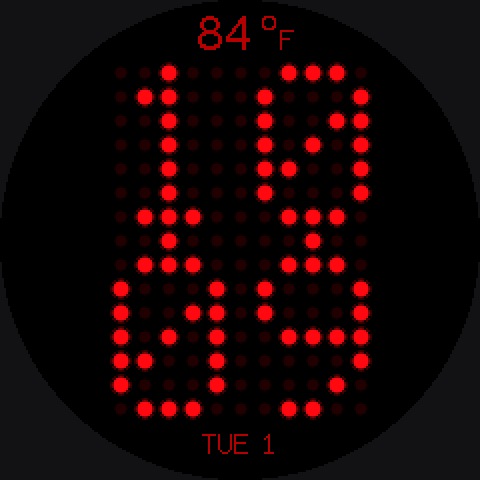
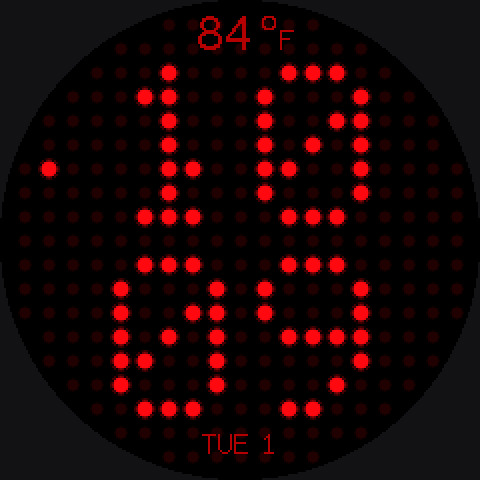
docs: cover the alarms, orientation and RTC
The C6 section listed the long press as opening the WiFi hotspot, which is
no longer what it does. It now lists what the board actually gained -
alarms, auto-rotation and the RTC - a line each, with the alarm detail in
docs/alarms.md rather than in the README: the pin traps and the volume
curve matter to someone working on that code and to nobody else.

Face renders for classic and dot-matrix are regenerated from the changed
sources, and classic's night theme joins the table.

diff --git a/README.md b/README.md
@@ -12,11 +12,12 @@ Super Mini boards from the same source.
 | dotmatrix | pulsar | pcb | default |
 | ![classic](docs/faces/classic.png) | ![modern](docs/faces/modern.png) | ![panel](docs/faces/panel.png) | ![panel at night](docs/faces/panel-night.png) |
 | classic | modern | panel | panel, after sunset |
-| ![delorean](docs/faces/delorean.png) | ![casio at night](docs/faces/casio-night.png) | ![retro at night](docs/faces/retro-night.png) | |
-| delorean | casio, after sunset | retro, after sunset | |
+| ![delorean](docs/faces/delorean.png) | ![casio at night](docs/faces/casio-night.png) | ![retro at night](docs/faces/retro-night.png) | ![classic at night](docs/faces/classic-night.png) |
+| delorean | casio, after sunset | retro, after sunset | classic, after sunset |
 
 The casio and retro faces switch to an EL-backlight green after sunset, the
-panel face to mint, and the mosaic tiles drift into blues. Sunrise and sunset come from the weather
+panel face to mint, classic turns its ivory dial over to near-black, and the
+mosaic tiles drift into blues. Sunrise and sunset come from the weather
 feed, so the switch happens at the real time for wherever you've set the
 coordinates.
 
@@ -60,21 +61,30 @@ the compiler never lands on the PATH (the script handles that itself).
 
 What's different on it:
 
-- **Touch.** Swipe right-to-left for the next face, left-to-right for the
-  previous one. Hold a finger down for a second to open the WiFi setup
-  hotspot. BOOT-at-power-on still works too.
+- **Touch.** Swipe for the next or previous face. Hold a finger down for a
+  second to open the alarms. BOOT-at-power-on still works too.
+- **Alarms.** Up to eight, saved across power cuts, with eight sounds
+  through the onboard speaker. Times are set on a drum picker you can drag
+  or flick. See [docs/alarms.md](docs/alarms.md).
+- **Auto-rotate.** The IMU keeps the face upright, snapping to the nearest
+  quarter turn as you turn the watch.
+- **Real-time clock.** The battery-backed RTC holds the time while the power
+  is off, so the clock is right the moment it boots instead of waiting for
+  the network. NTP still corrects it and writes it back.
 - **Resolution.** The faces are drawn for 240 pixels; here every coordinate
   is scaled to the panel as it's drawn, so hands, rings and ticks come out
   crisp at 466 rather than upscaled. Text is the same bitmap fonts doubled,
   which at this panel's density is the same physical size as on the 1.28".
 - **Memory.** A full 466x466 frame is 434 KB and the chip hasn't got it, so
   the screen is rendered in bands. The sweeping-seconds faces redraw only
-  small boxes around the hand, at 8 Hz like a 28,800 bph automatic, plus one
-  band of the dial per frame in rotation so nothing goes stale.
+  small boxes around the hand, at 8 Hz like a 28,800 bph automatic.
 - **AMOLED.** Pure blacks are properly off. Brightness drops after sunset.
   Static faces for three hours at a time are within what these panels
   tolerate, but if you're leaving it on a desk for months, shorter rotation
   is kinder.
+
+The WiFi setup hotspot is no longer on the long press; it opens by itself
+if the network has been down for a while, as it always did.
 
 `c6_displaytest` is the bring-up check: colour bands, all three fonts, and
 a dot that follows your finger.

diff --git a/docs/alarms.md b/docs/alarms.md
@@ -1,0 +1,64 @@
+# Alarms
+
+On the Waveshare ESP32-C6 AMOLED board only — it is the one with a
+touchscreen and a speaker.
+
+Hold a finger anywhere on the face for about a second to open them.
+
+## Using it
+
+**The list.** Every alarm, with its time and sound. The toggle on the right
+of a row turns one on or off without opening it. Drag to scroll if there are
+more than fit. `+` adds one, `Done` goes back to the clock.
+
+**The editor.** Tap a row to open it. Hour and minute are two columns you
+drag, flick or tap above and below to change — a flick keeps spinning and
+eases to a stop. Times are 24 hour, like every digital face here. The strip
+below opens the sound picker; `Save` keeps the changes, and the button
+beside it is `Cancel` on a new alarm and `Delete` on an existing one.
+
+**Sounds.** Eight of them — Beep, Chime, Radar, Bells, Ascend, Pulse,
+Marimba, Siren. Tap one to hear it and select it at the same time. They play
+at a fixed low level here, whatever the alarm volume is set to.
+
+**Volume** is on the list screen, not in the editor: one setting for every
+alarm. It plays a sample while your finger is on the slider.
+
+**When one goes off** the screen turns over to the ringer whatever was on
+it. `Dismiss` stops it. An alarm that has rung will not ring again inside
+the same minute.
+
+Up to eight alarms. They are stored in NVS, so they survive a power cut.
+
+## How it works
+
+Sound is synthesised, not sampled — there is no flash to spare beside the
+faces, and a softened square wave is what a small class-D speaker reproduces
+best anyway. Melodies are lists of note-and-duration pairs in
+`src/c6/audio.cpp`; adding one means adding an array, an entry in
+`MELODIES[]`, a name, and a value in the `Sound` enum.
+
+The audio path is an **ES8311** codec on I2S into an **NS4150B** class-D
+amplifier, out to the speaker connector. There is no DAC on this board and
+the ESP32-C6 has no DAC peripheral, so every tone goes out as I2S samples
+the codec converts.
+
+Two details that are easy to get wrong if you are working on this:
+
+- The amplifier's enable is **EXIO7 on the TCA9554 expander**, not a GPIO.
+  Without driving it the codec plays into a disabled amplifier and you hear
+  nothing at all.
+- I2S is **IO19 MCLK, IO21 SCLK, IO22 LRCK, IO23 DSDIN**. IO20 is ASDOUT,
+  the codec's ADC output — an input to us — and reading the pin table one
+  column early puts the bit clock on the codec's output pin, which is silent
+  in a way nothing else explains.
+
+Volume maps linearly onto −40…0 dB. The codec's volume register is already
+logarithmic at roughly 0.5 dB a step, so applying a percentage-squared curve
+on top of it applies a curve twice and leaves the bottom two thirds of the
+dial inaudible.
+
+Alarms are checked once a second against local time and fire on the minute.
+The clock keeps working normally if the codec never initialises; a failure
+is reported on the alarm list rather than being silent about being silent,
+because `Serial` goes to UART0 on this board and cannot be read over USB.
